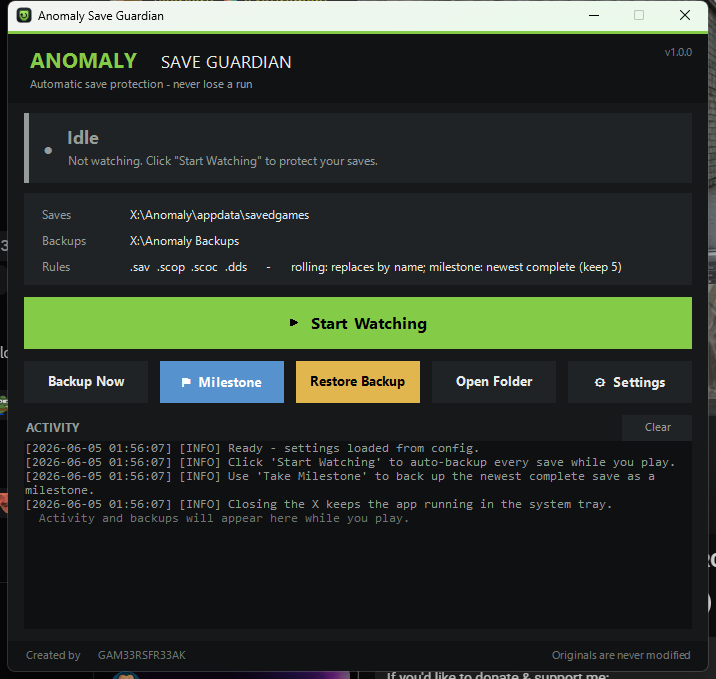
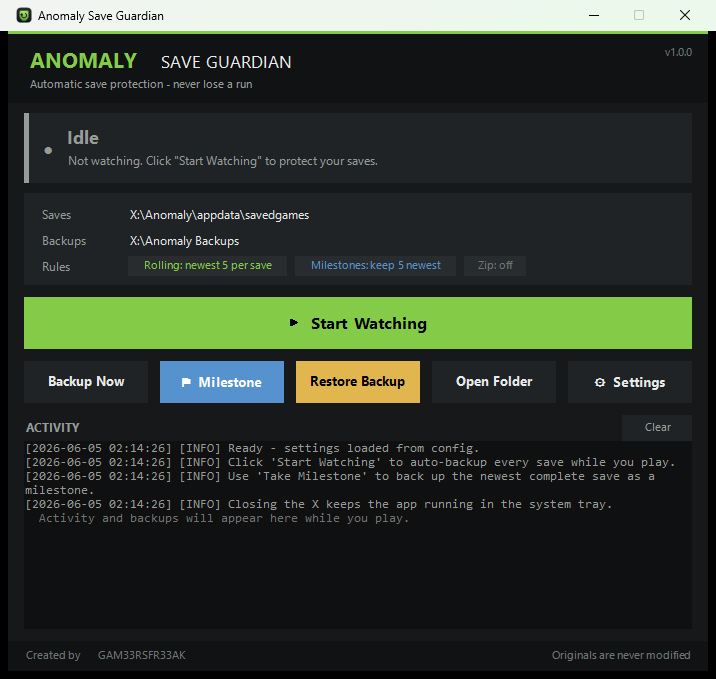
Polish UI and docs for v1.0.0
Fix the clipped backup-rules line on the main window by showing the rules
as three readable pills (rolling / milestones / zip) that fit at the
default window size, and give the Settings dialog more breathing room with
clearer, properly-spaced helper text.

- Main window: replace the single long Rules line with Rolling / Milestones
  / Zip pills; pills show the live retention counts and zip on/off state.
- Settings: widen and reflow the dialog, fix cramped spacing and helper-text
  wording (".scop + .scoc required; .dds optional.", grouped-zip wording,
  rolling/milestone retention explanation, settle-delay help).
- Refresh screenshot.png with the new main window (neutral sample paths).
- CHANGELOG: note the user-facing UI/UX polish under the refreshed v1.0.0.

No behavior changes to backup, milestone, restore, or retention. Version,
tag and release remain v1.0.0. All syntax, single-instance, release (39) and
restore (17) tests pass; packaged ZIP extracts and launches with -NoShow.

diff --git a/CHANGELOG.md b/CHANGELOG.md
@@ -26,6 +26,10 @@ All notable changes to this project are documented here. This project follows
 - UI copy now more clearly explains that rolling backups replace by save name,
   milestones use the newest complete save, and zip mode stores one complete
   save group per `.zip`.
+- **UI/UX polish:** the main window now shows the backup rules as three readable
+  pills (rolling / milestones / zip) instead of one long line that could clip,
+  and the Settings dialog has more breathing room with clearer, properly-spaced
+  helper text.
 - Version, tag and release remain `v1.0.0`; the package remains
   `Anomaly-Save-Guardian-v1.0.0.zip`.
 
